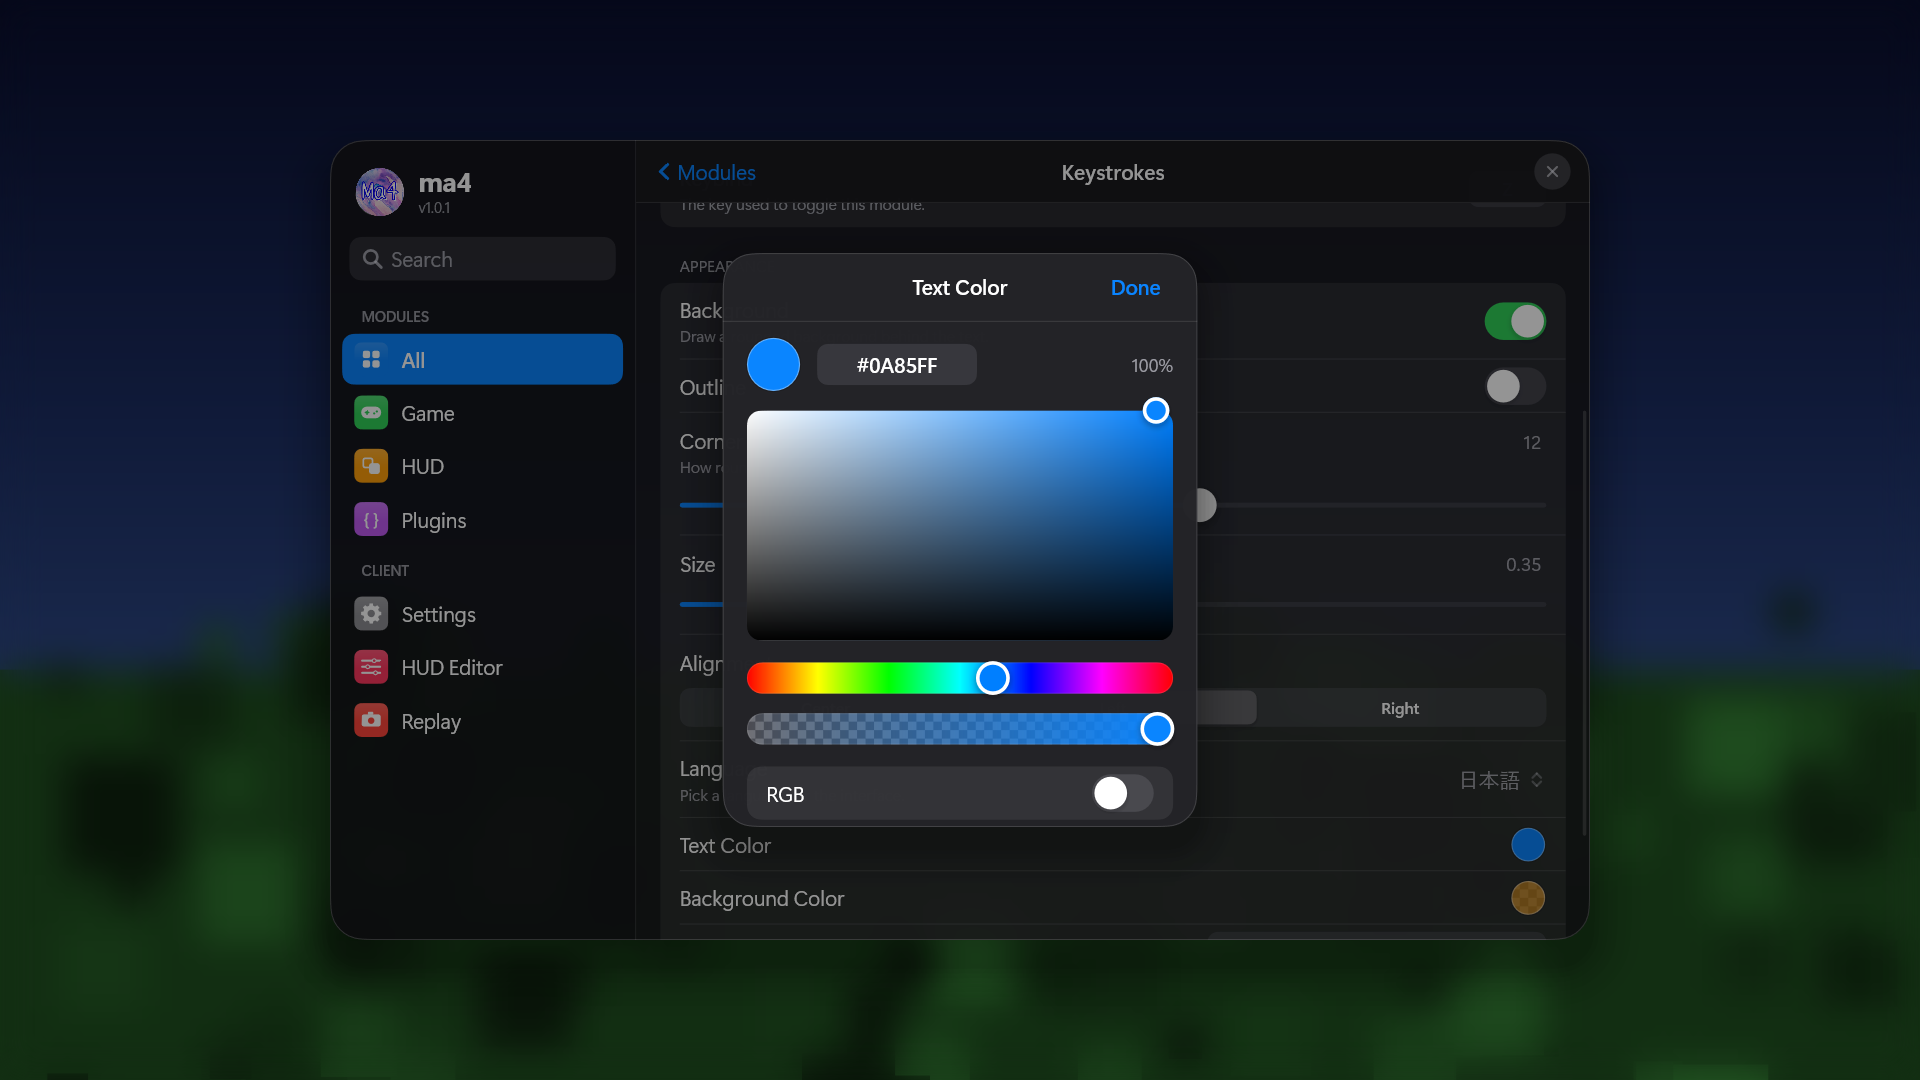
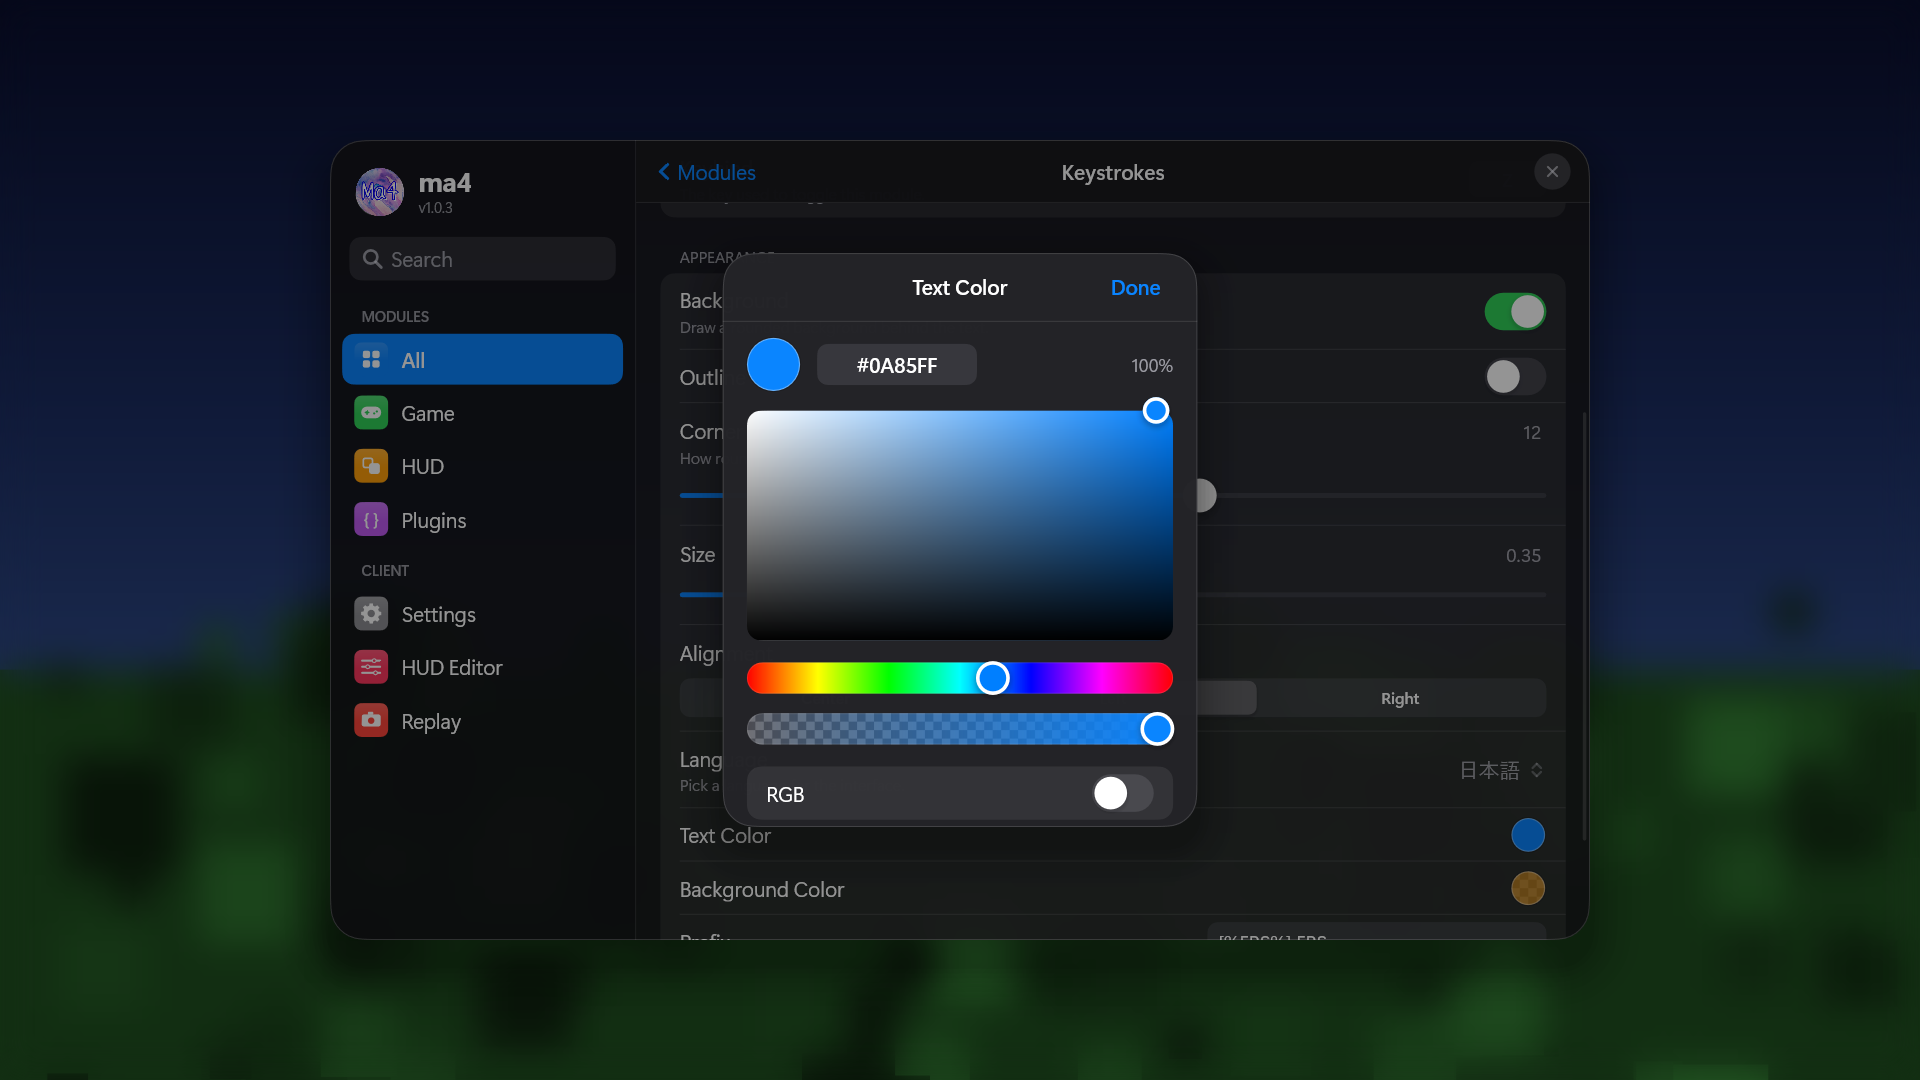
Release v1.0.3: simpler menu, no HUD editor hint, bigger replay map
- HUD editor: remove the drag

diff --git a/src/client/misc/ReplayTerrain.cpp b/src/client/misc/ReplayTerrain.cpp
@@ -282,7 +282,7 @@ namespace {
     std::vector<std::pair<int, int>> const& offsetsByDistance() {
         static const std::vector<std::pair<int, int>> offsets = [] {
             std::vector<std::pair<int, int>> v;
-            const int R = 8;
+            const int R = 12;
             for (int dz = -R; dz <= R; ++dz) {
                 for (int dx = -R; dx <= R; ++dx) {
                     if (dx * dx + dz * dz <= R * R + R) v.emplace_back(dx, dz);
@@ -360,9 +360,9 @@ void TerrainRecorder::update(SDK::BlockSource* region, Vec3 const& playerPos, Co
     const int py = static_cast<int>(std::floor(playerPos.y));
     const int pz = static_cast<int>(std::floor(playerPos.z));
     const int pcx = floorDiv16(px), pcz = floorDiv16(pz);
-    const int yTop = std::clamp(py + 24, -64, 319);
+    const int yTop = std::clamp(py + 32, -64, 319);
     const int yBottom = std::clamp(py - 48, -64, 319);
-    const int radius = std::clamp(cfg.radiusChunks, 1, 8);
+    const int radius = std::clamp(cfg.radiusChunks, 1, 12);
     const auto now = std::chrono::steady_clock::now();
 
     int budget = std::max(16, cfg.columnBudget);
@@ -378,7 +378,7 @@ void TerrainRecorder::update(SDK::BlockSource* region, Vec3 const& playerPos, Co
 
         if (b.cursor >= 256) {
             // finished; a few columns may have been unloaded the first time, try again a couple of times
-            if (b.unknown > 40 && b.passes < 3 && now >= b.retryAt) {
+            if (b.unknown > 8 && b.passes < 8 && now >= b.retryAt) {
                 b.cursor = 0;
                 b.unknown = 0;
                 ++b.passes;
@@ -394,14 +394,21 @@ void TerrainRecorder::update(SDK::BlockSource* region, Vec3 const& playerPos, Co
             if (sampleColumnGuarded(region, cx * 16 + lx, cz * 16 + lz, yTop, yBottom, rgb, h)) {
                 std::memcpy(&b.data.rgb[b.cursor * 3], rgb, 3);
                 b.data.height[b.cursor] = h;
+                if (b.data.height[b.cursor] == ios::ReplayTerrainChunk::kUnknown) ++b.known;
             } else if (b.data.height[b.cursor] == ios::ReplayTerrainChunk::kUnknown) {
                 ++b.unknown;
+                // a chunk that has produced nothing after a couple of rows is almost certainly not loaded yet:
+                // skip the rest of this pass instead of scanning 200+ empty columns (it is retried later)
+                if (b.known == 0 && b.cursor >= 31) {
+                    b.unknown = 256;
+                    b.cursor = 255;
+                }
             }
             ++b.cursor;
             --budget;
             if (disabled) return;
         }
-        if (b.cursor >= 256) b.retryAt = now + std::chrono::seconds(4);
+        if (b.cursor >= 256) b.retryAt = now + std::chrono::seconds(3 * (b.passes + 1));
         if (budget <= 0) break;
     }
 }

diff --git a/src/client/screen/ios/IosShell.cpp b/src/client/screen/ios/IosShell.cpp
@@ -17,7 +17,7 @@ namespace ios {
         constexpr float kMargin = 20.f;
         constexpr float kGroupR = 12.f;
         constexpr float kRowH = 44.f;
-        constexpr float kModRowH = 64.f;
+        constexpr float kModRowH = 56.f;
 
         constexpr uint64_t kIdOpen = 0x0A110001ull;
         constexpr uint64_t kIdPush = 0x0A110002ull;
@@ -683,12 +683,12 @@ namespace ios {
 
             // texts
             Rect textR(tile.right + S(13.f), rc.top, right, rc.bottom);
-            std::wstring sub = m.desc;
+            // module descriptions are not shown; only a plugin's author line stays
+            std::wstring sub;
             if (m.market && !m.author.empty()) {
-                std::wstring by = f.str.byAuthor;
-                size_t p = by.find(L"%s");
-                if (p != std::wstring::npos) by.replace(p, 2, m.author);
-                sub = sub.empty() ? by : by + L"  \u00B7  " + sub;
+                sub = f.str.byAuthor;
+                size_t p = sub.find(L"%s");
+                if (p != std::wstring::npos) sub.replace(p, 2, m.author);
             }
             float th = S(22.f), sh = sub.empty() ? 0.f : S(17.f);
             float block = th + sh;
@@ -866,9 +866,11 @@ namespace ios {
             float swW = toggleable ? S(51.f) + S(16.f) : 0.f;
             float textW = w - S(16.f) - tileS - S(14.f) - S(16.f) - swW;
             TextStyle ds(Font::Regular, S(14.f), pal.secondaryLabel, HAlign::Leading, VAlign::Top, true);
-            float descH = d.desc.empty() ? 0.f : std::min(ui.measure(d.desc, ds, textW).y, S(14.f) * 1.4f * 4.f);
+            float descH = 0.f; // module descriptions are not shown
+            (void)ds;
+            (void)textW;
             float nameH = S(28.f);
-            float cardH = std::max(S(96.f), S(16.f) + nameH + (descH > 0.f ? S(4.f) + descH : 0.f) + S(16.f));
+            float cardH = std::max(S(88.f), S(16.f) + nameH + (descH > 0.f ? S(4.f) + descH : 0.f) + S(16.f));
             Rect card(x, y, x + w, y + cardH);
             ui.fillSmooth(card, S(kGroupR), pal.cell);
             Rect tile(card.left + S(16.f), card.centerY() - tileS * 0.5f, card.left + S(16.f) + tileS,

diff --git a/src/client/screen/screens/HUDEditor.cpp b/src/client/screen/screens/HUDEditor.cpp
@@ -87,7 +87,7 @@ void HUDEditor::onRender(Event& ev) {
             float buttonWidth = S(236.f);
             float buttonHeight = S(54.f);
             d2d::Rect ssRec = { 0.f, 0.f, ss.width, ss.height };
-            Vec2 btnPos = ssRec.center({ buttonWidth, buttonHeight + S(46.f) });
+            Vec2 btnPos = ssRec.center({ buttonWidth, buttonHeight });
             d2d::Rect btnRect = { btnPos, Vec2(btnPos.x + buttonWidth, btnPos.y + buttonHeight) };
 
             // only react when no HUD element is covering the button
@@ -113,14 +113,6 @@ void HUDEditor::onRender(Event& ev) {
                     ios::TextStyle(ios::Font::Semibold, S(18.f), ui.pal.label, ios::HAlign::Leading, ios::VAlign::Center));
             ui.ctx()->SetTransform(oldT);
 
-            // hint line
-            std::wstring hint = LocalizeString::get("client.ui.hudEditor.hint");
-            ios::TextStyle hs(ios::Font::Medium, S(13.f), ui.pal.secondaryLabel, ios::HAlign::Center, ios::VAlign::Center);
-            float hw = std::min(ui.textWidth(hint, hs) + S(28.f), ss.width - S(40.f));
-            d2d::Rect hr(ssRec.centerX() - hw * 0.5f, btnRect.bottom + S(16.f), ssRec.centerX() + hw * 0.5f,
-                         btnRect.bottom + S(16.f) + S(30.f));
-            ui.rrect(hr, hr.getHeight() * 0.5f, ui.pal.material);
-            ui.text(hr, hint, hs);
             ui.popOpacity();
             ui.endFrame();
 

diff --git a/src/client/feature/module/modules/game/ReplayRecorder.cpp b/src/client/feature/module/modules/game/ReplayRecorder.cpp
@@ -28,9 +28,9 @@ ReplayRecorder::ReplayRecorder()
     terSetting->callback = [this](Setting&) {
         applyConfig();
     };
-    auto radSetting = addSliderSetting("terrainRadius", LocalizeString::get("client.module.replay.terrainRadius.name"),
+    auto radSetting = addSliderSetting("mapRadius", LocalizeString::get("client.module.replay.terrainRadius.name"),
                                        LocalizeString::get("client.module.replay.terrainRadius.desc"), terrainRadius,
-                                       FloatValue(1.f), FloatValue(8.f), FloatValue(1.f), "recordTerrain"_istrue);
+                                       FloatValue(1.f), FloatValue(12.f), FloatValue(1.f), "recordTerrain"_istrue);
     radSetting->callback = [this](Setting&) {
         applyConfig();
     };
@@ -51,7 +51,7 @@ void ReplayRecorder::applyConfig() {
     cfg.maxMinutes = std::clamp(std::get<FloatValue>(maxMinutes).value, 1.f, 30.f);
     cfg.recordEntities = std::get<BoolValue>(recordEntities).value;
     cfg.recordTerrain = std::get<BoolValue>(recordTerrain).value;
-    cfg.terrainRadius = std::clamp(static_cast<int>(std::get<FloatValue>(terrainRadius).value), 1, 8);
+    cfg.terrainRadius = std::clamp(static_cast<int>(std::get<FloatValue>(terrainRadius).value), 1, 12);
 }
 
 void ReplayRecorder::onKey(Event& evG) {

diff --git a/src/client/misc/ReplayTerrain.h b/src/client/misc/ReplayTerrain.h
@@ -21,8 +21,8 @@ namespace SDK {
 class TerrainRecorder {
 public:
     struct Config {
-        int radiusChunks = 3;    // chunks around the player that are mapped
-        int columnBudget = 160;  // columns sampled per tick
+        int radiusChunks = 6;    // chunks around the player that are mapped (1..12)
+        int columnBudget = 256;  // columns sampled per tick
     };
 
     void reset();
@@ -47,6 +47,7 @@ private:
         ios::ReplayTerrainChunk data;
         uint16_t cursor = 0;
         uint16_t unknown = 0;
+        uint16_t known = 0;
         uint8_t passes = 0;
         std::chrono::steady_clock::time_point retryAt;
     };

diff --git a/tools/ui-harness/harness.cpp b/tools/ui-harness/harness.cpp
@@ -260,7 +260,7 @@ static void buildFrame(Frame& f, Env& e, bool hudPreview) {
     f.replay.toggleRecording = [] {};
     f.replay.addMarker = [] {};
     f.replay.remove = [](uint64_t) {};
-    f.version = L"v1.0.2";
+    f.version = L"v1.0.3";
     f.str.appName = L"ma4";
     f.logo = e.logo.Get();
     struct M {

diff --git a/src/client/feature/module/modules/game/ReplayRecorder.h b/src/client/feature/module/modules/game/ReplayRecorder.h
@@ -18,6 +18,6 @@ private:
     ValueType maxMinutes = FloatValue(10.f);
     ValueType recordEntities = BoolValue(true);
     ValueType recordTerrain = BoolValue(true);
-    ValueType terrainRadius = FloatValue(3.f);
+    ValueType terrainRadius = FloatValue(6.f);
     ValueType autoRecord = BoolValue(false);
 };

diff --git a/src/client/Ma4.h b/src/client/Ma4.h
@@ -69,7 +69,7 @@ public:
     Ma4() = default;
     ~Ma4() = default;
 
-    static constexpr std::string_view version = "v1.0.2";
+    static constexpr std::string_view version = "v1.0.3";
     static constexpr std::array<std::string_view, 1> supportedMinecraftVersions = {
         "1.26.6x",
     };

diff --git a/src/client/misc/ReplayStore.h b/src/client/misc/ReplayStore.h
@@ -30,7 +30,7 @@ public:
         float maxMinutes = 10.f;
         bool recordEntities = true;
         bool recordTerrain = true;
-        int terrainRadius = 3; // chunks
+        int terrainRadius = 6; // chunks
         float radius = 64.f;
         size_t entityLimit = 40;
     } config;

diff --git a/CHANGELOG.md b/CHANGELOG.md
@@ -3,6 +3,19 @@
 All notable changes to ma4 Client. Versions follow `MAJOR.MINOR.PATCH`; the current version lives in
 `src/client/Ma4.h` (`Ma4::version`).
 
+## [1.0.3] - 2026-11-10
+
+### Changed
+- HUD editor (opened with the menu key): the hint line "drag to move / scroll to resize / right-click for settings /
+  middle-click to hide" is gone; only the *Mod Settings* button is left.
+- The menu no longer shows module descriptions: the grey line under every module in the list and under the module name
+  on the detail page are removed (plugin rows keep their "by author" line, per-setting descriptions are unchanged).
+  List rows are a little shorter as a result.
+- **Bigger replay map.** Default map radius 3 -> 6 chunks, up to 12 (slider *Map Radius*, new setting key so the old
+  saved value does not override it), 256 columns per tick (was 160), the scan reaches 32 blocks above you (was 24),
+  and chunks that were not loaded yet are retried up to 8 times with growing delays; fully unloaded chunks are skipped
+  cheaply.
+
 ## [1.0.2] - 2026-11-10
 
 ### Fixed
